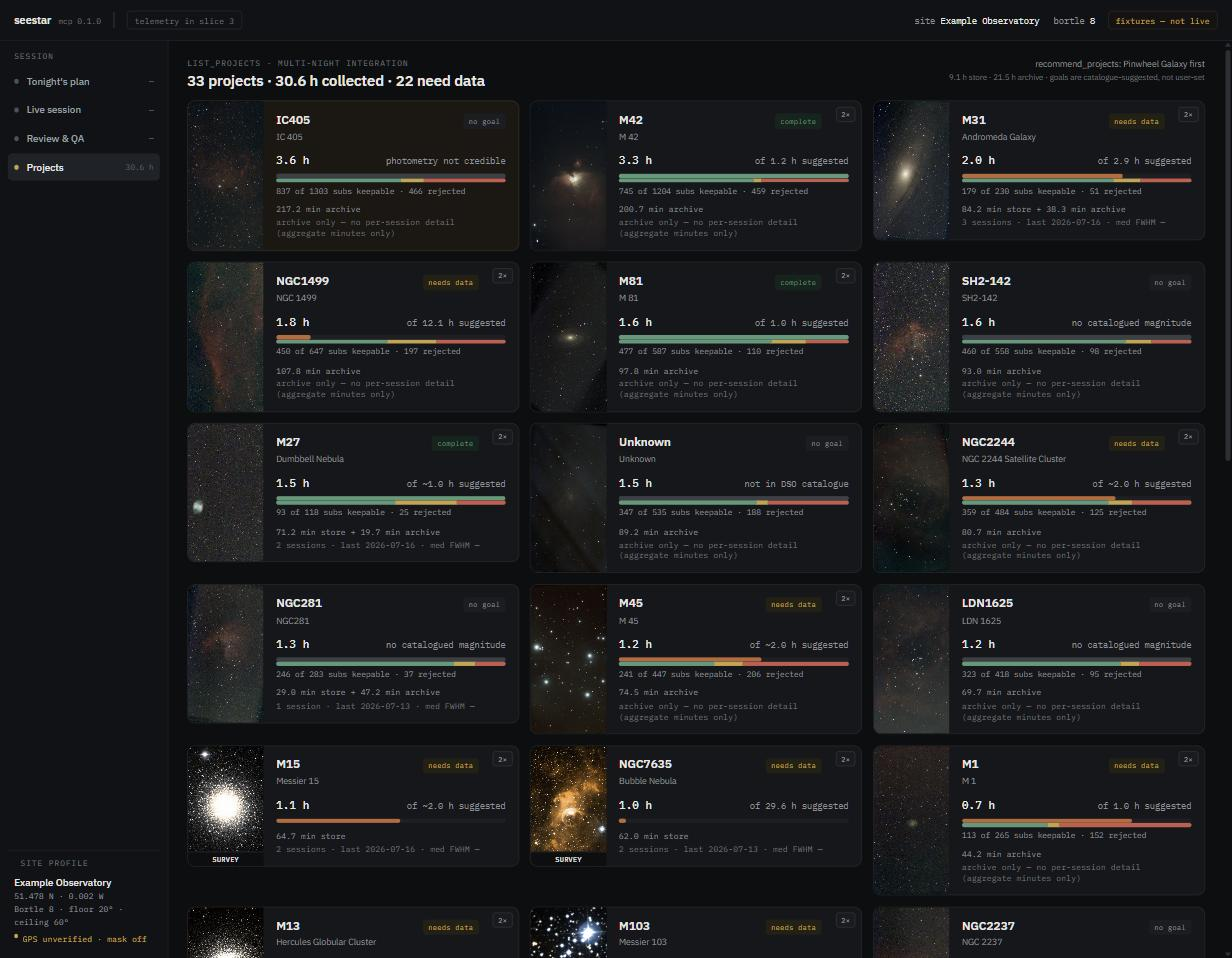
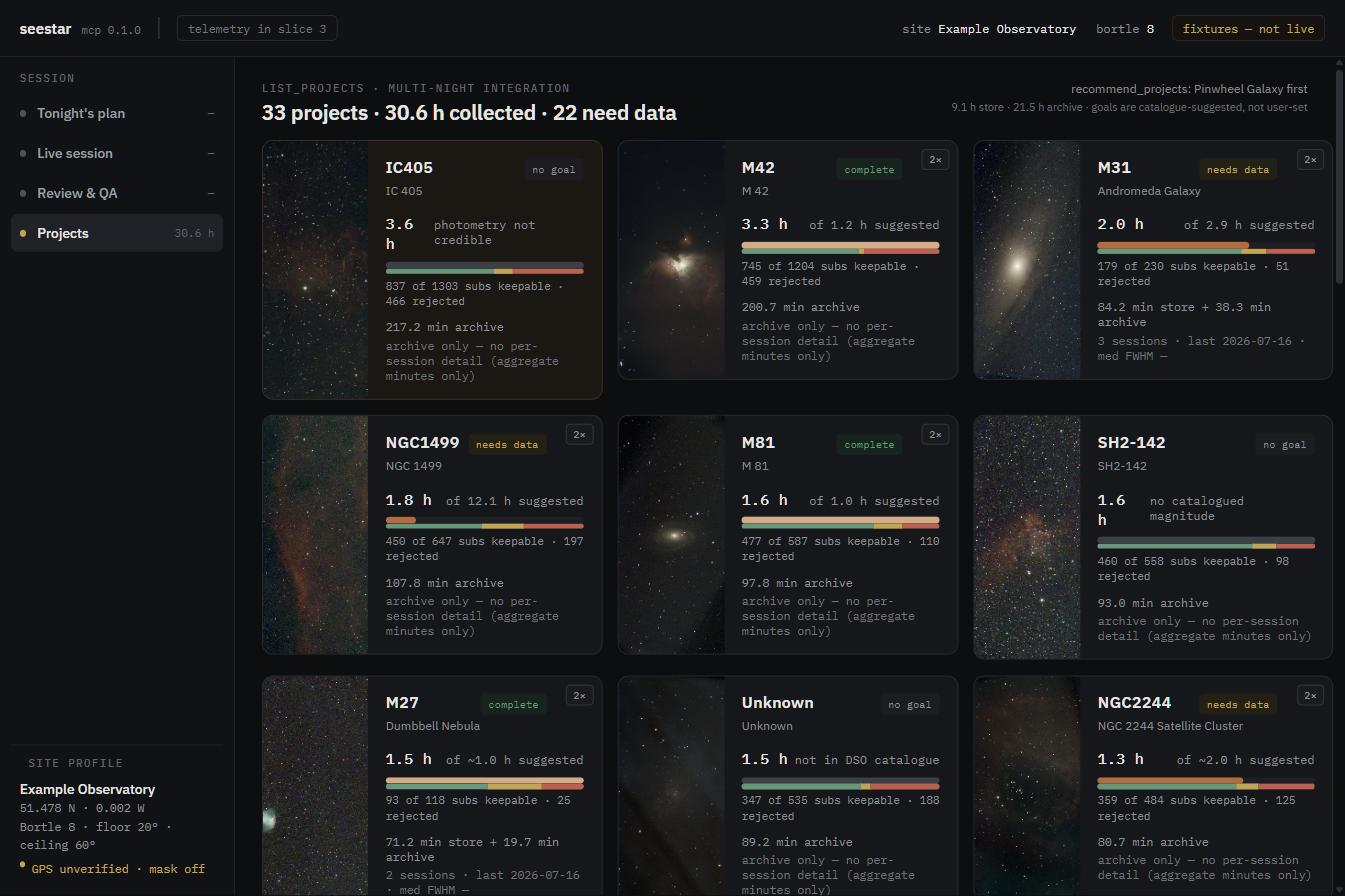
chore: make the repo publishable — MIT licence, honest screenshots, live fix
Four things, ahead of going public.

1. LICENSE (MIT). There was none, which on a public repo means all rights
   reserved — nobody could legally use or fork it. data/README.md already
   reasoned about "the repo's own licence" twice as though one existed, and
   that argument is load-bearing for the OpenNGC attribution. The file carves
   out what MIT does NOT cover: the CC BY-SA catalogue data and the OFL fonts.

2. The Live screen forgot its target when the SMB share dropped. Observed
   live mid-session: "Target unknown" while get_view_state was answering and
   reporting 1075 stacked frames on M13. useLiveSession sourced the target
   from live_preview's `target` alone, on the written premise that
   "get_view_state carries no target name at all" — false, and false in this
   repo's own schema, which has carried View.target_name throughout. It now
   prefers view_state (the scope's own report) over the share (which lags and
   can name a previous session's object).

   Mobile-only in effect: LiveScreen's desktop branch already had the
   fallback. Regression test targets the mobile branch with the share stubbed
   unreachable; mutation-proved.

   Knock-on: a test asserted last_stack was scoped to 'M27', the SYNTHETIC
   preview fixture's target, which only passed while the preview was the
   source. It now reads the expected id off the recording — the two fixtures
   legitimately disagree, because the share lagging the scope is exactly the
[…]

diff --git a/web/src/screens/live/LiveScreen.test.tsx b/web/src/screens/live/LiveScreen.test.tsx
@@ -3,7 +3,7 @@ import { afterEach, describe, expect, it, vi } from 'vitest'
 import { readFileSync } from 'node:fs'
 import { join } from 'node:path'
 import { LiveScreen } from './LiveScreen'
-import { SiteProfileSchema, type Health } from '../../api/schemas'
+import { SiteProfileSchema, ViewStateSchema, type Health } from '../../api/schemas'
 import { stubMatchMedia } from '../../test/matchMedia'
 import {
   lastStackAbsent,
@@ -417,7 +417,19 @@ describe('LiveScreen', () => {
       }))
       render(<LiveScreen view="live" onNavigate={vi.fn()} site={site} health={notReplaying} />)
       await waitFor(() => expect(screen.getByTestId('last-stack-caption')).toBeInTheDocument())
-      expect(calls.some((url) => url.startsWith('/api/last_stack') && url.includes('M27'))).toBe(true)
+      // Read the expected id off the recording rather than hardcoding it. This
+      // assertion said 'M27' — the SYNTHETIC preview fixture's target — and
+      // that passed only while the client sourced the target from the preview
+      // alone. It now comes from get_view_state's own View.target_name, which
+      // the real recording gives as NGC7380, and the two fixtures legitimately
+      // disagree: the share lags the scope, which is precisely the condition
+      // that made the old precedence wrong.
+      const resolved = ViewStateSchema.parse(recordedViewState()).view_state?.result?.View
+        ?.target_name
+      expect(resolved).toBeTruthy()
+      expect(calls.some((url) => url.startsWith('/api/last_stack') && url.includes(resolved!))).toBe(
+        true,
+      )
     })
   })
 
@@ -631,5 +643,36 @@ describe('run state is only trusted when active', () => {
     render(<LiveScreen view="live" onNavigate={vi.fn()} site={site} health={notReplaying} />)
 
     expect(decodeURIComponent(await waitForFetch('check_night_guardrails'))).toContain(REAL)
+  })
+})
+
+describe('the target name does not depend on the file share', () => {
+  it('still names the target on mobile when live_preview reports share_unreachable', async () => {
+    // Observed live on 2026-08-08, mid-session: the SMB share dropped and the
+    // phone showed "Target unknown" while get_view_state was still answering
+    // and still reporting 1075 stacked frames on M13.
+    //
+    // Mobile only. LiveScreen's DESKTOP branch already fell back to
+    // `liveView?.target_name` (line ~195); the mobile branch did not, and
+    // useLiveSession sourced currentTarget from live_preview's `target`
+    // alone — so losing the share lost the name on the one surface you would
+    // actually be holding in a field.
+    //
+    // Observability is stubbed to fail so the chain reduces to currentTarget,
+    // which is the link this fixes; otherwise its own resolved common name
+    // would satisfy the assertion for the wrong reason.
+    const expected = ViewStateSchema.parse(recordedViewState()).view_state?.result?.View
+      ?.target_name
+    expect(expected).toBeTruthy()
+    stubMatchMedia(true)
+    stubApi({
+      '/api/live_preview': { ok: true, source: null, reason: 'share_unreachable' },
+      '/api/get_target_observability': undefined,
+    })
+
+    render(<LiveScreen view="live" onNavigate={vi.fn()} site={site} health={notReplaying} />)
+
+    expect(await screen.findByText(expected!)).toBeInTheDocument()
+    expect(screen.queryByText('Target unknown')).not.toBeInTheDocument()
   })
 })

diff --git a/web/src/screens/live/useLiveSession.ts b/web/src/screens/live/useLiveSession.ts
@@ -112,11 +112,26 @@ export type LiveSessionState =
        * already reported, not a derived state machine. */
       stageHistory: string[]
       /** The catalogue id (e.g. "M27") this client is currently treating as
-       * "the target being imaged" — sourced from live_preview's own `target`
-       * field (see client.ts's `fetchTargetObservability` doc comment for
-       * why: get_view_state carries no target name at all), and held sticky
-       * across a poll where the preview temporarily has none. `null` before
-       * any preview has ever named one. */
+       * "the target being imaged".
+       *
+       * Sourced from `get_view_state`'s own `View.target_name` first, and
+       * only then from live_preview's `target`. That order matters and was
+       * wrong until 2026-08-08: this used to read the preview ALONE, on the
+       * stated premise that "get_view_state carries no target name at all".
+       * That premise was false — `ViewSchema.target_name` has been in this
+       * file's own schema the whole time, and the sidecar already reads it
+       * (`live_preview.extract_target_name`) to scope the share scan.
+       *
+       * The consequence was live: when the SMB share dropped mid-session the
+       * screen showed "Target unknown" while `get_view_state` — still
+       * answering, still reporting 1075 stacked frames — knew perfectly well
+       * it was on M13. The target name must not depend on a file share.
+       *
+       * view_state wins over the preview because it is the scope's own report
+       * of what it is pointed at now, whereas the preview's target comes from
+       * the newest file on the share, which lags and can name a previous
+       * session's object. Still held sticky across a poll where both are
+       * momentarily absent. `null` before either has ever named one. */
       currentTarget: string | null
     }
 
@@ -335,12 +350,13 @@ export function useLiveSession(): LiveSessionState {
         sessionActivityPromise,
       ])
 
-      // Observability needs a target id, which only live_preview's own
-      // `target` field confirms (see client.ts) — fetched only once that's
-      // known, and held sticky across a poll where the preview briefly has
-      // none (e.g. a momentary share hiccup), rather than blanking the
-      // sweet-band card every time preview.target is absent.
-      if (preview?.target) currentTargetRef.current = preview.target
+      // The scope's own answer first, the share's second. See currentTarget's
+      // doc comment: reading the preview alone meant an unreachable share
+      // erased the target name from a session that was visibly still running.
+      // Held sticky across a poll where both are momentarily absent, rather
+      // than blanking the sweet-band card.
+      const namedTarget = viewState?.view_state?.result?.View?.target_name ?? preview?.target
+      if (namedTarget) currentTargetRef.current = namedTarget
       const observability = currentTargetRef.current
         ? await fetchTargetObservability(currentTargetRef.current).catch(() => null)
         : null

diff --git a/README.md b/README.md
@@ -35,9 +35,15 @@ shortlist with the server's own reasoning attached to each card.
 ### Live session
 The camera view while it stacks — frames kept and dropped, plate-solve state,
 focus, the current stage, and the guardrail verdict. The preview says when a
-frame is stale rather than presenting it as current.
+frame is stale rather than presenting it as current. The activity feed
+attributes every call to the client that made it.
 
 <img src="docs/screenshots/live-session.jpg" alt="Live session" width="100%" />
+
+> This one shot is older than the other three: re-taking it needs the scope
+> awake on the LAN, since the preview reads its SMB share. The layout and the
+> data are current; only the activity feed's origin tags have changed since,
+> from an inferred `ambiguous` to a named `this console` / `agent`.
 
 ### Review & QA
 Morning-after triage over `qa_tier2`: per-sub eccentricity and star count
@@ -57,6 +63,10 @@ still be mostly rejects.
 ---
 
 ## Run it
+
+You need **Node 20+**, **Python 3.11 or 3.12** (the sidecar pins
+`>=3.11,<3.13`), and [**uv**](https://docs.astral.sh/uv/). A telescope is
+optional — see the replay note below.
 
 The sidecar serves both the API and the built frontend on one port — there is
 no separate dev server to run in production.
@@ -210,7 +220,10 @@ checks *nothing* here: the root `tsconfig.json` is a solution file with
 - `docs/screenshots/` — the images above. `_hero.html` regenerates the hero;
   open it and screenshot it rather than editing the PNG.
 
-## Licences
+## Licence
+
+**MIT** — see [`LICENSE`](LICENSE), which also records the two sets of files it
+does *not* cover.
 
 IBM Plex Sans and IBM Plex Mono are self-hosted under
 `web/public/fonts/` (SIL Open Font License 1.1 — see the `LICENSE.txt` next to

diff --git a/data/README.md b/data/README.md
@@ -43,7 +43,7 @@ vectorising the observability computation first.
 `dso_catalog_extended.json` and `dso_aliases.json` are adapted from OpenNGC
 (CC BY-SA 4.0, © Mattia Verga). That licence's share-alike condition binds
 **these two data files and anything adapted from them — not this repository's
-application code**, which stays under the repo's own licence. Full notice,
+application code**, which stays under the repo's own licence ([MIT](../LICENSE)). Full notice,
 required attribution text, and the exact list of modifications: see
 `ATTRIBUTION-OpenNGC.md`. The CC BY-SA 4.0 legal code itself allows satisfying
 its "include the licence" condition with a link rather than the full text

diff --git a/docs/handback-to-seestar-ai.md b/docs/handback-to-seestar-ai.md
@@ -141,6 +141,10 @@ frame — the changes a schema cannot see. MINOR adds a key. PATCH corrects a de
 
 ### Repo visibility — answered
 
+> **Superseded 2026-08-08 — the repo is going public.** MIT, `LICENSE` at the root, with the
+> OpenNGC data's CC BY-SA and the fonts' OFL carved out explicitly. So you can cite our commits
+> directly from here on rather than describing them. Everything below was the earlier answer.
+
 **Staying private for now** (decided 2026-08-02). seestar-mcp asked in round 4 whether this repo
 could go public so both sides could cite commits instead of describing them; we said we would come
 back with an answer rather than leave it open, and this is it.
